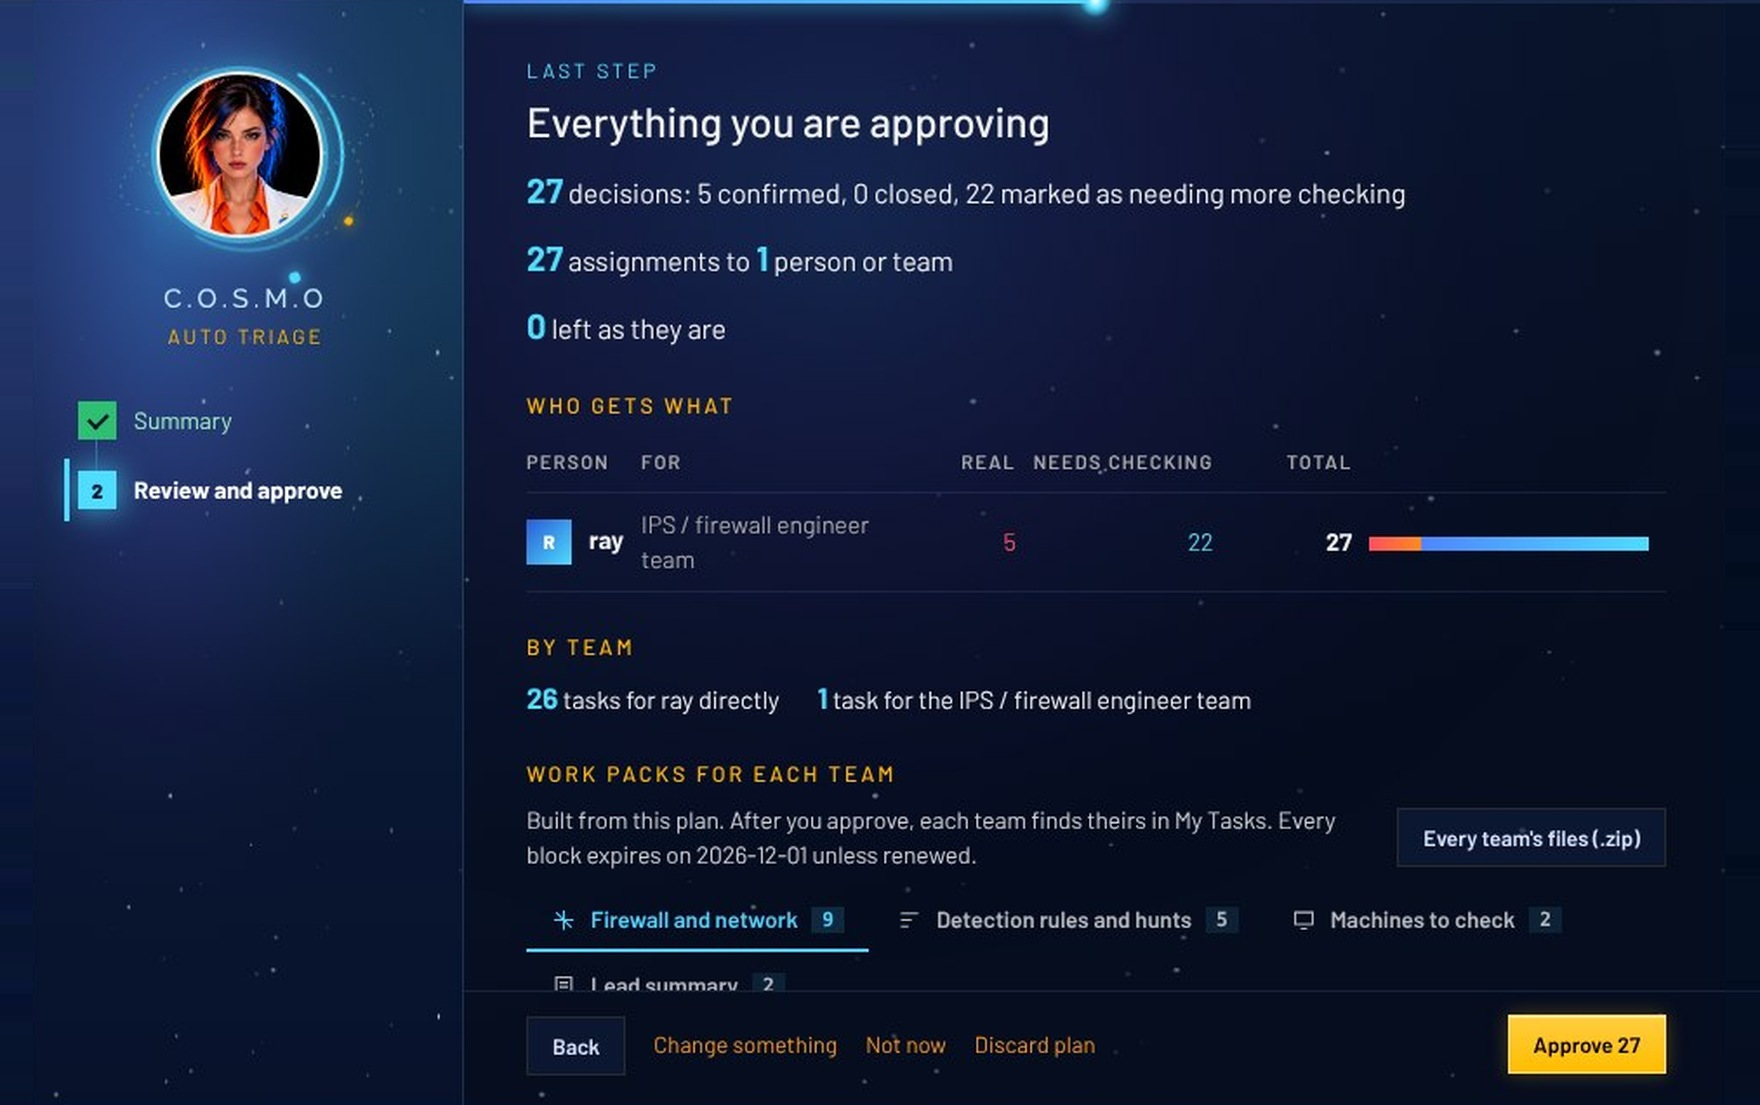
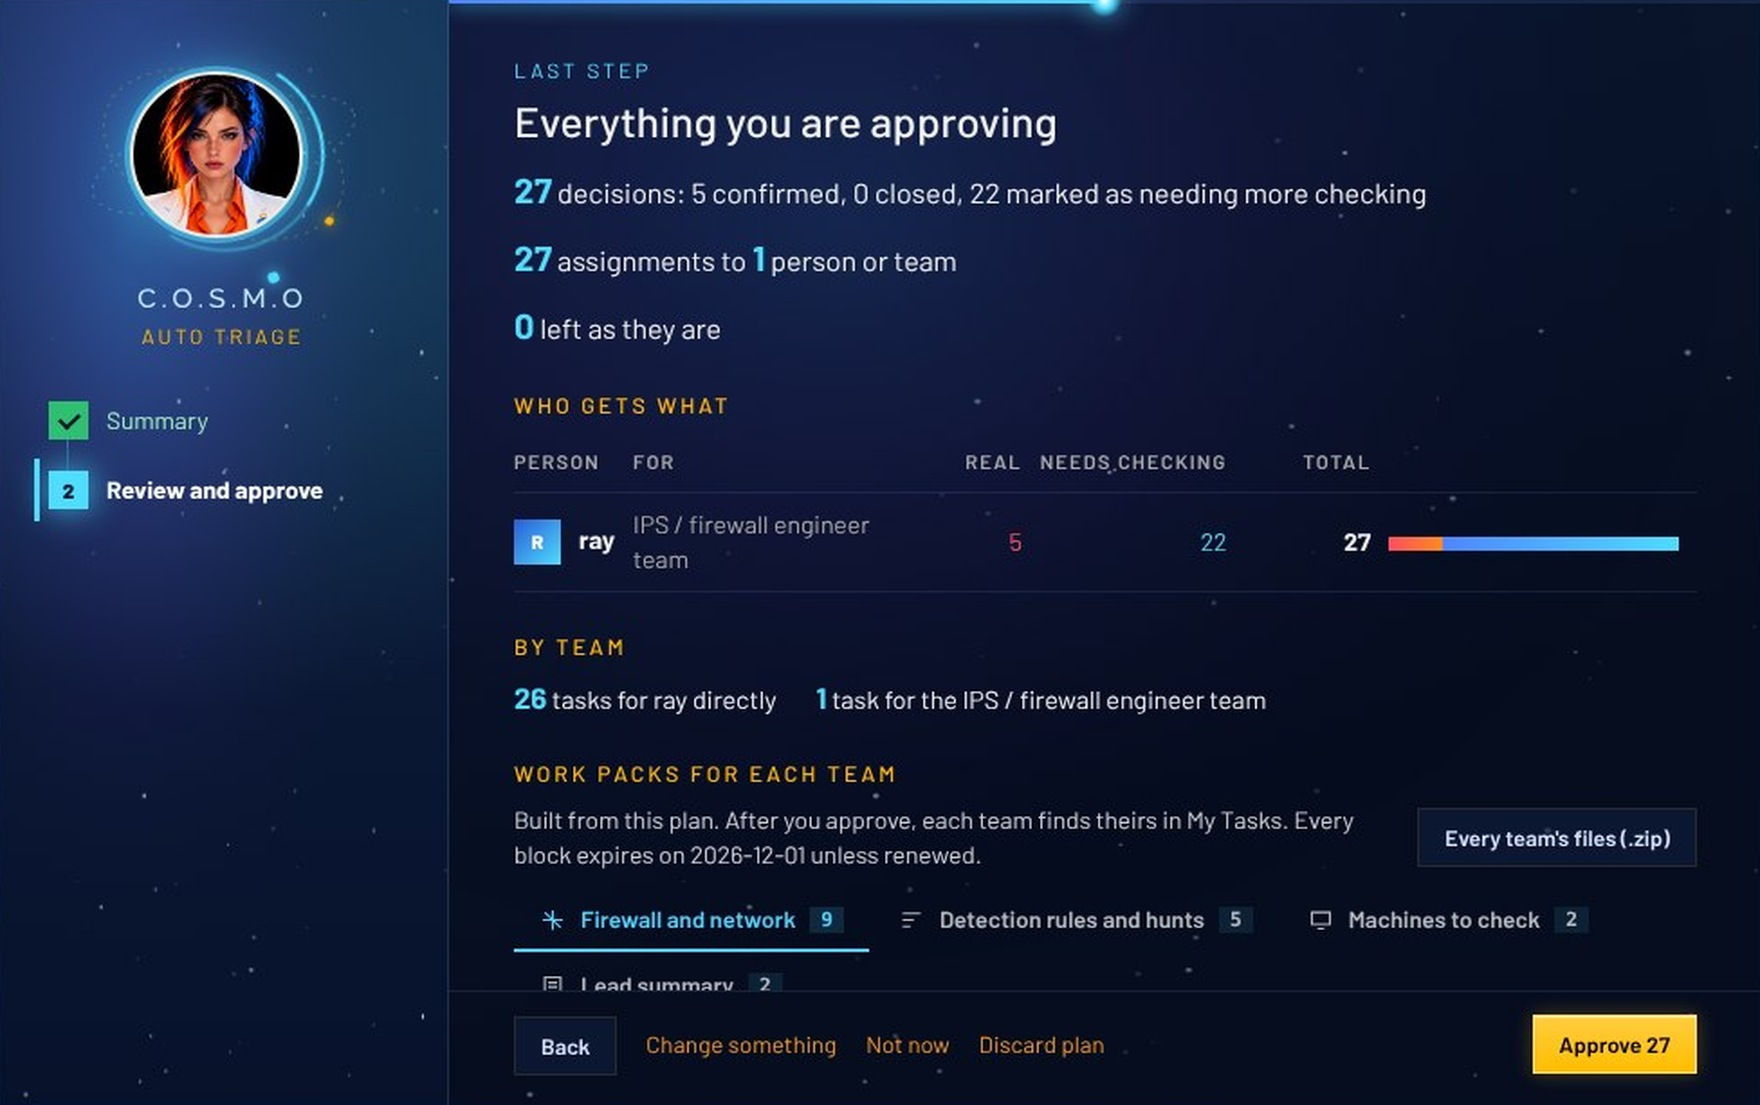
Earth network: many more hubs and links so the lines never run out as it turns; bot dialog pictures fill the laptop edge to edge

diff --git a/js/site.js b/js/site.js
@@ -299,10 +299,10 @@ if (gal && !still) { gal.style.setProperty('--gx', (p * 300 - 30).toFixed(1) + '
     var cities = [], lights = [], links = [], n, k;
     var onTop = function (maxDeg) { var th = Math.acos(1 - rn() * (1 - Math.cos(maxDeg * Math.PI / 180))), ph = rn() * 6.2832; return [Math.sin(th) * Math.cos(ph), -Math.cos(th), Math.sin(th) * Math.sin(ph)]; };
     var jig = function (v, s) { var x = v[0] + gs() * s, y = v[1] + gs() * s, z = v[2] + gs() * s, l = Math.sqrt(x * x + y * y + z * z); return [x / l, y / l, z / l]; };
-    for (n = 0; n < 760; n++) cities.push([onTop(46), rn() < .12]);
+    for (n = 0; n < 1800; n++) cities.push([onTop(28), rn() < .1]);
     cities.forEach(function (c) { var m = 3 + Math.floor(rn() * 7); for (k = 0; k < m; k++) lights.push([jig(c[0], .004), rn() < .25 || c[1] ? 1 : 0]); });
-    for (n = 0; n < 900; n++) lights.push([onTop(46), rn() < .2 ? 1 : 0]);
-    cities.forEach(function (a, ai) { var near = cities.map(function (b, bi) { var d = Math.pow(a[0][0] - b[0][0], 2) + Math.pow(a[0][1] - b[0][1], 2) + Math.pow(a[0][2] - b[0][2], 2); return [d, bi]; }).filter(function (x) { return x[1] !== ai; }).sort(function (u, v) { return u[0] - v[0]; }).slice(0, 3); near.forEach(function (x) { if (x[1] > ai && x[0] < .006) links.push([ai, x[1], rn() < .2, rn()]); }); });
+    for (n = 0; n < 1500; n++) lights.push([onTop(28), rn() < .2 ? 1 : 0]);
+    cities.forEach(function (a, ai) { var near = cities.map(function (b, bi) { var d = Math.pow(a[0][0] - b[0][0], 2) + Math.pow(a[0][1] - b[0][1], 2) + Math.pow(a[0][2] - b[0][2], 2); return [d, bi]; }).filter(function (x) { return x[1] !== ai; }).sort(function (u, v) { return u[0] - v[0]; }).slice(0, 3); near.forEach(function (x) { if (x[1] > ai && x[0] < .0012) links.push([ai, x[1], rn() < .2, rn()]); }); });
     // the tilted axis the globe turns about (leaning so the lights travel on a diagonal, and rise over the horizon)
     var AX = (function () { var x = .5, y = .22, z = .84, l = Math.sqrt(x * x + y * y + z * z); return [x / l, y / l, z / l]; })();
     var fit = function () { var r = cv.getBoundingClientRect(); dpr = Math.min(window.devicePixelRatio || 1, 2); W = r.width; H = r.height; cv.width = Math.round(W * dpr); cv.height = Math.round(H * dpr); };

diff --git a/security.html b/security.html
@@ -52,7 +52,7 @@
         
         <ul class="flow"><li class="flow-label">How it works</li><li class="step">C.O.S.M.O recommends</li><li class="arrow" aria-hidden="true"><svg viewBox="0 0 24 24" aria-hidden="true"><use href="#i-arrow"/></svg></li><li class="step person">Your team decides</li><li class="arrow" aria-hidden="true"><svg viewBox="0 0 24 24" aria-hidden="true"><use href="#i-arrow"/></svg></li><li class="step">Sealed record</li></ul>
       </div>
-      <div class="feature-media" data-reveal="right"><figure class="device-laptop "><div class="lid"><div class="screen"><img src="assets/img/bot-4-packs.jpg?v=20261109d" width="1760" height="1105" alt="Work orders for each team: firewall commands and rules, ready to copy or download. C.O.S.M.O writes them and your team applies them." loading="lazy"></div></div><div class="base"></div></figure></div>
+      <div class="feature-media" data-reveal="right"><figure class="device-laptop "><div class="lid"><div class="screen"><img src="assets/img/bot-4-packs.jpg?v=20261109g" width="1760" height="1105" alt="Work orders for each team: firewall commands and rules, ready to copy or download. C.O.S.M.O writes them and your team applies them." loading="lazy"></div></div><div class="base"></div></figure></div>
     </div>
   </div>
 </section>
@@ -174,6 +174,6 @@
     </div>
   </div>
 </footer>
-<script src="js/site.js?v=20261109f" defer></script>
+<script src="js/site.js?v=20261109h" defer></script>
 </body>
 </html>

diff --git a/index.html b/index.html
@@ -136,9 +136,9 @@
         <div class="morph-glass">
           <img src="assets/img/bot-5-chat.jpg?v=20261103c" alt="" loading="lazy">
           <img src="assets/img/bot-1-queue.jpg?v=20261103c" alt="" loading="lazy">
-          <img src="assets/img/bot-2-plan.jpg?v=20261109d" alt="" loading="lazy">
-          <img src="assets/img/bot-3-approve.jpg?v=20261109d" alt="" loading="lazy">
-          <img src="assets/img/bot-4-packs.jpg?v=20261109d" alt="" loading="lazy">
+          <img src="assets/img/bot-2-plan.jpg?v=20261109g" alt="" loading="lazy">
+          <img src="assets/img/bot-3-approve.jpg?v=20261109g" alt="" loading="lazy">
+          <img src="assets/img/bot-4-packs.jpg?v=20261109g" alt="" loading="lazy">
         </div>
         <img class="morph-frame" src="assets/img/mock/macbook-frame.png" alt="">
       </figure>
@@ -481,6 +481,6 @@
     </div>
   </div>
 </footer>
-<script src="js/site.js?v=20261109f" defer></script>
+<script src="js/site.js?v=20261109h" defer></script>
 </body>
 </html>

diff --git a/404.html b/404.html
@@ -91,6 +91,6 @@
     </div>
   </div>
 </footer>
-<script src="/js/site.js?v=20261109f" defer></script>
+<script src="/js/site.js?v=20261109h" defer></script>
 </body>
 </html>

diff --git a/contact.html b/contact.html
@@ -133,6 +133,6 @@
     </div>
   </div>
 </footer>
-<script src="js/site.js?v=20261109f" defer></script>
+<script src="js/site.js?v=20261109h" defer></script>
 </body>
 </html>

diff --git a/government.html b/government.html
@@ -176,6 +176,6 @@
     </div>
   </div>
 </footer>
-<script src="js/site.js?v=20261109f" defer></script>
+<script src="js/site.js?v=20261109h" defer></script>
 </body>
 </html>

diff --git a/thanks.html b/thanks.html
@@ -91,6 +91,6 @@
     </div>
   </div>
 </footer>
-<script src="js/site.js?v=20261109f" defer></script>
+<script src="js/site.js?v=20261109h" defer></script>
 </body>
 </html>
